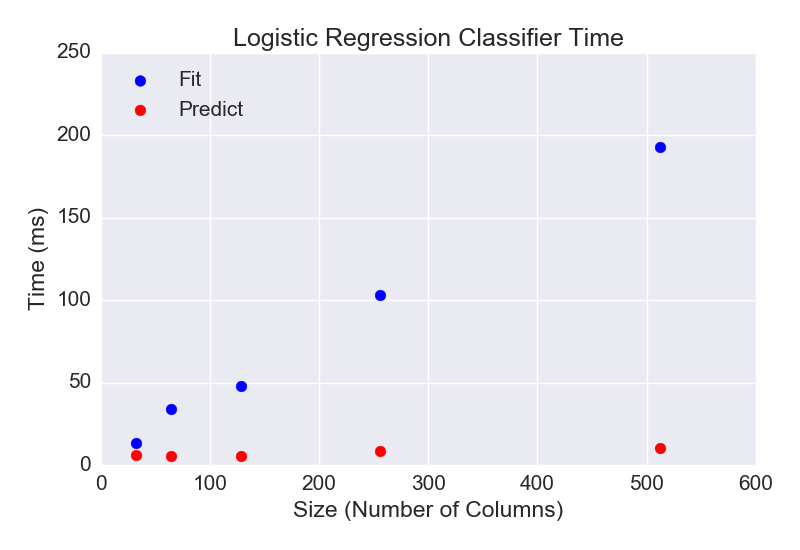
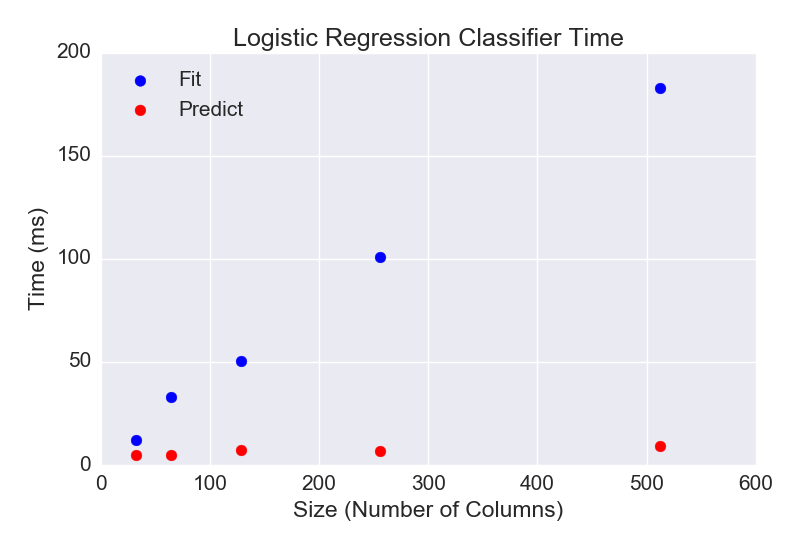
prelim large tests on multi-clf

diff --git a/speed_test.py b/speed_test.py
@@ -197,10 +197,10 @@ def time_fit_predict_array(clf, dftrain, dftrain_y, axis=0, fixed=4, arr=[16,8,4
     fits = []
     preds = []
     shapes = []
-#    numc = num
+    numc = num
     if axis==1:
         for col in arr:
-            numc = int(num * col / min(arr))    # num calc
+#            numc = int(num * col / min(arr))    # num calc
         # increase rp instead of num??
             # from timing, not linear, maybe quadratic, depends on clf
             print(".", end="", flush=True)
@@ -211,7 +211,7 @@ def time_fit_predict_array(clf, dftrain, dftrain_y, axis=0, fixed=4, arr=[16,8,4
         print("  columns")
     else:
         for row in arr:
-            numc = int(num * row / min(arr))    # num calc
+#            numc = int(num * row / min(arr))    # num calc
             print(".", end="", flush=True)
             tfit, tpred, shape = time_size_fit_predict(clf, dftrain, dftrain_y, rowf=row, colf=fixed, num=numc, var=var)
             fits.append(tfit)

diff --git a/clf_speed.py b/clf_speed.py
@@ -44,9 +44,9 @@ def main():
     dftrain, dftrain_y = init_data() 
     
     logistic_regression_speed_test(dftrain, dftrain_y, plotdir)
-#    naive_bayes_speed_test(dftrain, dftrain_y, plotdir)
+    naive_bayes_speed_test(dftrain, dftrain_y, plotdir)
     linear_svm_speed_test(dftrain, dftrain_y, plotdir)
-#    svm_speed_test(dftrain, dftrain_y, plotdir)
+    svm_speed_test(dftrain, dftrain_y, plotdir)
 
 if __name__ == '__main__':
     main()
